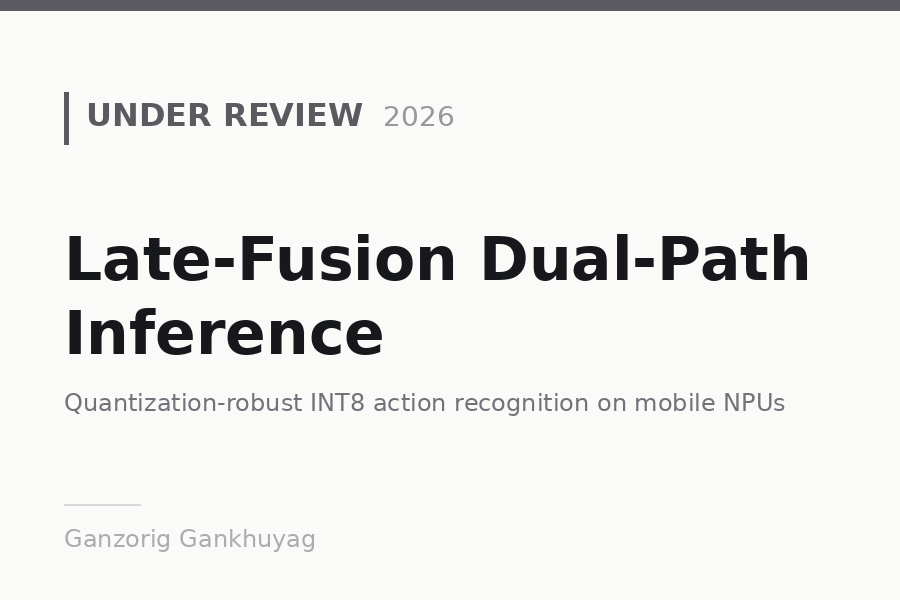
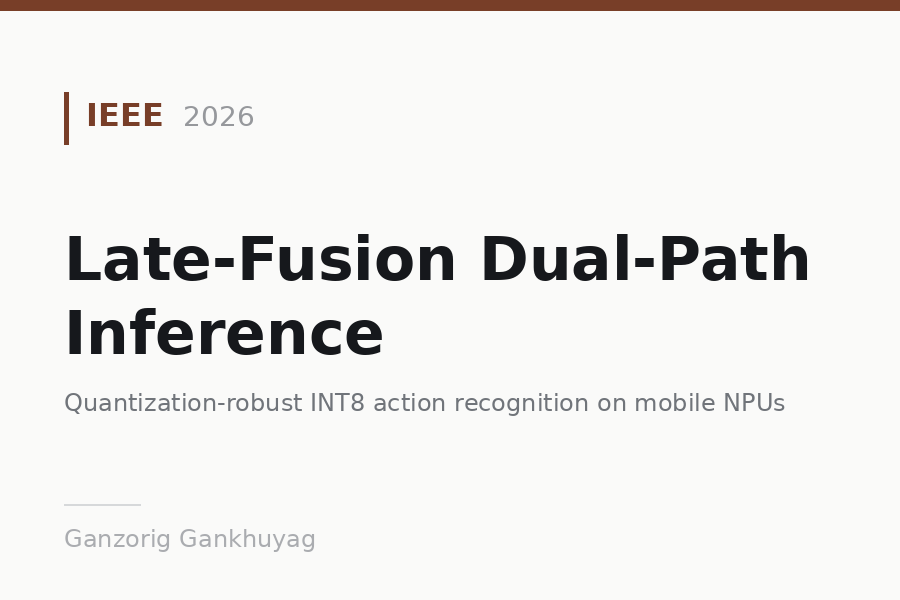
Mark the late-fusion paper as published in IEEE Access
It was listed as under review. Fill in the published record from
Crossref (vol. 14, pp. 154669-154685, DOI 10.1109/ACCESS.2026.3740127),
the full author list, and the published abstract; switch the preview
card's venue to IEEE; and add a news item.

Changed region(s): [[0.0, 0.0, 1.0, 0.03], [0.0622, 0.15, 0.4044, 0.24], [0.4356, 0.18, 0.4978, 0.21]]

diff --git a/_news/0_ieee_access2026.md b/_news/0_ieee_access2026.md
@@ -1,0 +1,8 @@
+---
+layout: post
+date: 2026-11-24 10:00:00+0900
+inline: true
+related_posts: false
+---
+
+_Late-Fusion Dual-Path Inference: Architecture-Level Quantization Robustness for INT8 Action Recognition on Mobile NPUs_ published in **IEEE Access** (open access).
